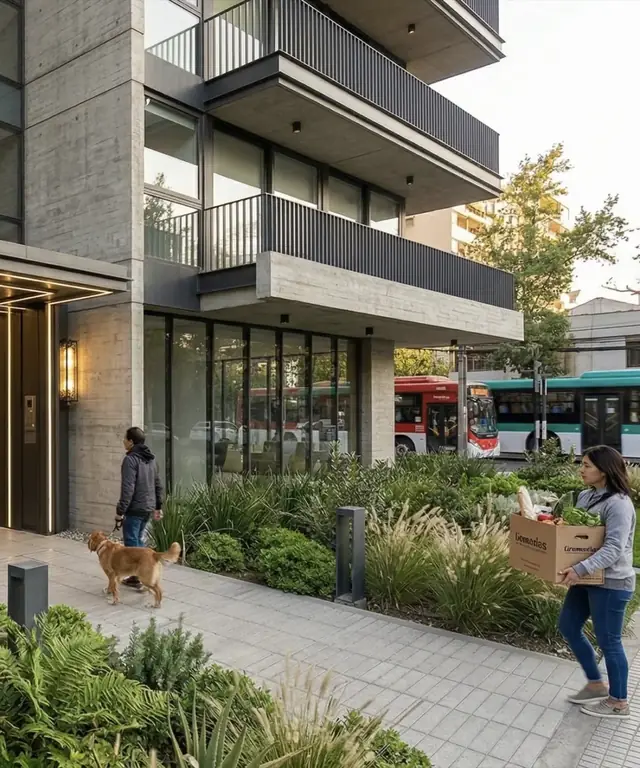
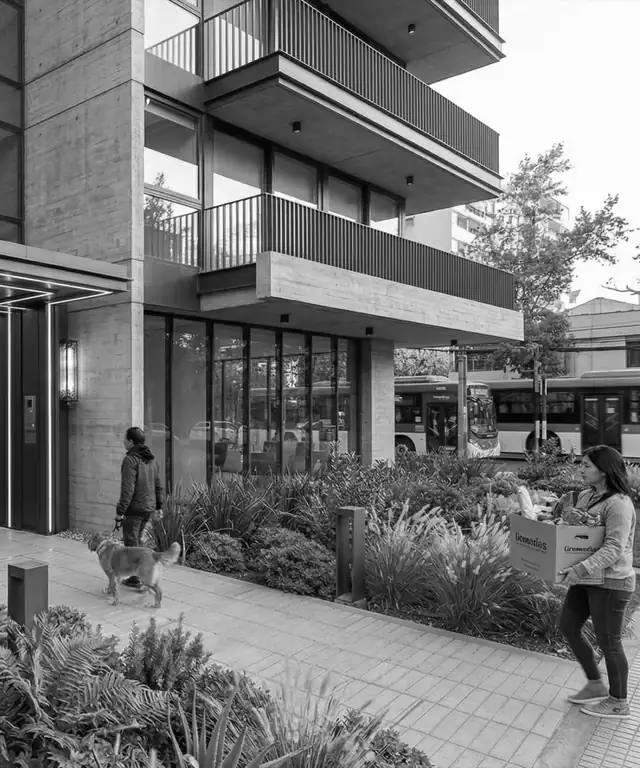
Rendimiento: LCP más temprano, sin reflujo forzado y menos JS inicial
Ajustes a partir del análisis de PageSpeed/Lighthouse en móvil:
- La animación de entrada de la hero parte con opacidad 0.3: un elemento con
  opacidad 0 no cuenta para el LCP hasta que aparece, y el H1 es el LCP en móvil.
- El nav detecta el scroll con IntersectionObserver en vez de leer scrollY al
  cargar, lo que forzaba un layout de toda la página. La barra móvil usa la
  posición que entrega el observer en vez de offsetTop.
- El Stepper se carga de forma diferida en el formulario de la hero (solo se usa
  después de enviar) y se precarga al enviar. <Step> pasa a StepperStep.tsx.
- Foto de la hero en escala de grises (se pinta en modo luminosidad), recomprimida
  y con versión de 960 px en el srcset.
- Solo se precarga la fuente principal; el brillo de la etiqueta se espacia.

diff --git a/src/components/islands/HeroForm.tsx b/src/components/islands/HeroForm.tsx
@@ -1,10 +1,10 @@
-import { useEffect, useId, useState, type ChangeEvent, type CSSProperties, type FormEvent, type ReactNode } from 'react';
+import { lazy, Suspense, useEffect, useId, useState, type ChangeEvent, type CSSProperties, type FormEvent, type ReactNode } from 'react';
 import { AnimatePresence, motion } from 'motion/react';
 import { ArrowRight, Check, LoaderCircle } from 'lucide-react';
 import SpotlightCard from '../reactbits/SpotlightCard';
 import StarBorder from '../reactbits/StarBorder';
 import ClickSpark from '../reactbits/ClickSpark';
-import Stepper, { Step } from '../reactbits/Stepper';
+import { Step } from '../reactbits/StepperStep';
 import WhatsAppIcon from '../ui/WhatsAppIcon';
 import { PREFILL_EVENT, emptyLead, sendLead, track, type Lead } from '../../lib/leads';
 
@@ -37,6 +37,10 @@ interface Props {
 }
 
 type Phase = 'contact' | 'sent' | 'details' | 'done';
+
+// El Stepper solo se usa después de enviar el lead: se carga aparte para aligerar la hidratación inicial
+const loadStepper = () => import('../reactbits/Stepper');
+const Stepper = lazy(loadStepper);
 
 const INPUT =
   'peer w-full rounded-xl border border-white/15 bg-white/[0.06] px-4 text-[14.5px] text-white outline-none transition duration-200 placeholder:text-transparent focus:border-white/55 focus:bg-white/[0.1] [&:-webkit-autofill]:[-webkit-text-fill-color:#fff] [&:-webkit-autofill]:[transition:background-color_9999s]';
@@ -205,6 +209,11 @@ export default function HeroForm(props: Props) {
   const update =
     (name: keyof Lead) => (event: ChangeEvent<HTMLInputElement | HTMLSelectElement | HTMLTextAreaElement>) =>
       setLead(current => ({ ...current, [name]: event.target.value }));
+
+  // Apenas se envía el lead se precarga el Stepper, así el paso de detalles abre sin espera
+  useEffect(() => {
+    if (phase === 'sent') void loadStepper();
+  }, [phase]);
 
   // La autoevaluación puede precargar el motivo con su resultado
   useEffect(() => {
@@ -409,86 +418,88 @@ export default function HeroForm(props: Props) {
 
           {phase === 'details' && (
             <Panel key="details">
-              <Stepper
-                step={detailsStep}
-                onStepChange={setDetailsStep}
-                theme="dark"
-                frame={false}
-                width="100%"
-                linear
-                accentColor="#ffffff"
-                style={
-                  {
-                    '--stepper-tile': 'linear-gradient(180deg, rgba(255,255,255,0.18), rgba(255,255,255,0.09))',
-                    '--stepper-tile-edge': 'rgba(255, 255, 255, 0.16)',
-                    '--stepper-tile-highlight': 'rgba(255, 255, 255, 0.2)',
-                    '--stepper-tile-shadow': '0 6px 16px -8px rgba(0, 0, 0, 0.5)',
-                    '--stepper-well': 'rgba(255, 255, 255, 0.06)'
-                  } as CSSProperties
-                }
-                backButtonText="Volver"
-                nextButtonText="Continuar"
-                completeButtonText={sending ? 'Enviando…' : props.detailsSubmit}
-                nextButtonProps={{
-                  disabled: sending || (detailsStep === 1 && !lead.tipo),
-                  onClick: event => {
-                    if (detailsStep === 2) {
-                      event.preventDefault();
-                      void submitDetails();
-                    }
+              <Suspense fallback={<div className="min-h-[380px]" aria-busy="true" />}>
+                <Stepper
+                  step={detailsStep}
+                  onStepChange={setDetailsStep}
+                  theme="dark"
+                  frame={false}
+                  width="100%"
+                  linear
+                  accentColor="#ffffff"
+                  style={
+                    {
+                      '--stepper-tile': 'linear-gradient(180deg, rgba(255,255,255,0.18), rgba(255,255,255,0.09))',
+                      '--stepper-tile-edge': 'rgba(255, 255, 255, 0.16)',
+                      '--stepper-tile-highlight': 'rgba(255, 255, 255, 0.2)',
+                      '--stepper-tile-shadow': '0 6px 16px -8px rgba(0, 0, 0, 0.5)',
+                      '--stepper-well': 'rgba(255, 255, 255, 0.06)'
+                    } as CSSProperties
                   }
-                }}
-              >
-                <Step title="Tu comunidad">
-                  <div className="grid gap-3 pt-1">
-                    <SelectField label="Tu comunidad" name="tipo" value={lead.tipo} options={options.tipo} onChange={update('tipo')} required />
-                    <SelectField
-                      label="¿Eres parte del comité actual?"
-                      name="comite"
-                      value={lead.comite}
-                      options={options.comite}
-                      onChange={update('comite')}
-                    />
-                    <div className="grid grid-cols-3 gap-3">
-                      <Field label="Torres" name="torres" type="number" inputMode="numeric" min={1} max={99} value={lead.torres} onChange={update('torres')} />
-                      <Field label="Pisos" name="pisos" type="number" inputMode="numeric" min={1} max={60} value={lead.pisos} onChange={update('pisos')} />
-                      <Field label="Deptos/piso" name="deptos" type="number" inputMode="numeric" min={1} max={40} value={lead.deptos} onChange={update('deptos')} />
+                  backButtonText="Volver"
+                  nextButtonText="Continuar"
+                  completeButtonText={sending ? 'Enviando…' : props.detailsSubmit}
+                  nextButtonProps={{
+                    disabled: sending || (detailsStep === 1 && !lead.tipo),
+                    onClick: event => {
+                      if (detailsStep === 2) {
+                        event.preventDefault();
+                        void submitDetails();
+                      }
+                    }
+                  }}
+                >
+                  <Step title="Tu comunidad">
+                    <div className="grid gap-3 pt-1">
+                      <SelectField label="Tu comunidad" name="tipo" value={lead.tipo} options={options.tipo} onChange={update('tipo')} required />
+                      <SelectField
+                        label="¿Eres parte del comité actual?"
+                        name="comite"
+                        value={lead.comite}
+                        options={options.comite}
+                        onChange={update('comite')}
+                      />
+                      <div className="grid grid-cols-3 gap-3">
+                        <Field label="Torres" name="torres" type="number" inputMode="numeric" min={1} max={99} value={lead.torres} onChange={update('torres')} />
+                        <Field label="Pisos" name="pisos" type="number" inputMode="numeric" min={1} max={60} value={lead.pisos} onChange={update('pisos')} />
+                        <Field label="Deptos/piso" name="deptos" type="number" inputMode="numeric" min={1} max={40} value={lead.deptos} onChange={update('deptos')} />
+                      </div>
+                      <SelectField
+                        label="¿Tiene ascensores?"
+                        name="ascensores"
+                        value={lead.ascensores}
+                        options={options.ascensores}
+                        onChange={update('ascensores')}
+                      />
                     </div>
-                    <SelectField
-                      label="¿Tiene ascensores?"
-                      name="ascensores"
-                      value={lead.ascensores}
-                      options={options.ascensores}
-                      onChange={update('ascensores')}
-                    />
-                  </div>
-                </Step>
-                <Step title="Qué buscas">
-                  <div className="grid gap-3 pt-1">
-                    <SelectField
-                      label="¿Tiene caldera de agua caliente?"
-                      name="calderas"
-                      value={lead.calderas}
-                      options={options.calderas}
-                      onChange={update('calderas')}
-                    />
-                    <SelectField
-                      label="Espacios comunes (gym, quinchos, sala…)"
-                      name="espacios"
-                      value={lead.espacios}
-                      options={options.espacios}
-                      onChange={update('espacios')}
-                    />
-                    <TextArea label="¿Por qué buscas nueva administración?" name="motivo" value={lead.motivo} onChange={update('motivo')} />
-                    <TextArea
-                      label="¿Qué es lo más importante que debe tener una administración para ti?"
-                      name="importante"
-                      value={lead.importante}
-                      onChange={update('importante')}
-                    />
-                  </div>
-                </Step>
-              </Stepper>
+                  </Step>
+                  <Step title="Qué buscas">
+                    <div className="grid gap-3 pt-1">
+                      <SelectField
+                        label="¿Tiene caldera de agua caliente?"
+                        name="calderas"
+                        value={lead.calderas}
+                        options={options.calderas}
+                        onChange={update('calderas')}
+                      />
+                      <SelectField
+                        label="Espacios comunes (gym, quinchos, sala…)"
+                        name="espacios"
+                        value={lead.espacios}
+                        options={options.espacios}
+                        onChange={update('espacios')}
+                      />
+                      <TextArea label="¿Por qué buscas nueva administración?" name="motivo" value={lead.motivo} onChange={update('motivo')} />
+                      <TextArea
+                        label="¿Qué es lo más importante que debe tener una administración para ti?"
+                        name="importante"
+                        value={lead.importante}
+                        onChange={update('importante')}
+                      />
+                    </div>
+                  </Step>
+                </Stepper>
+              </Suspense>
               {errorNote}
             </Panel>
           )}

diff --git a/src/data/site.ts b/src/data/site.ts
@@ -79,10 +79,14 @@ export const site = {
     rotating: ['el lugar donde vives', 'tu edificio', 'tu condominio', 'tu tranquilidad'],
     subtitle:
       'Mantenciones preventivas para que nada falle, supervisión en terreno todas las semanas y en línea 24/7, seguridad con protocolos definidos y cada gasto controlado con total transparencia.',
-    // Foto de fondo de la hero (va al 22% de opacidad). `small`: versión de 640 px para pantallas chicas
+    // Foto de fondo de la hero (va al 22% de opacidad y en modo luminosidad: basta en escala de grises).
+    // `variants`: versiones más chicas para el srcset
     image: {
       src: '/edificio-residencial.webp',
-      small: '/edificio-residencial-640.webp',
+      variants: [
+        { src: '/edificio-residencial-640.webp', width: 640 },
+        { src: '/edificio-residencial-960.webp', width: 960 }
+      ],
       alt: 'Edificio residencial',
       width: 1100,
       height: 1320

diff --git a/src/components/reactbits/Stepper.tsx b/src/components/reactbits/Stepper.tsx
@@ -14,15 +14,11 @@ import {
   type ReactNode
 } from 'react';
 import { ArrowLeft, ArrowRight, Check as CheckIcon } from 'lucide-react';
+import { Step, type StepProps } from './StepperStep';
+
+export { Step, type StepProps };
 
 const useIsomorphicLayoutEffect = typeof window === 'undefined' ? useEffect : useLayoutEffect;
-
-export interface StepProps {
-  children?: ReactNode;
-  title?: ReactNode;
-  description?: ReactNode;
-  icon?: ReactNode;
-}
 
 interface StepIndicatorProps {
   step: number;
@@ -200,10 +196,6 @@ function Check() {
       <CheckIcon size={16} strokeWidth={2.4} />
     </span>
   );
-}
-
-export function Step({ children }: StepProps) {
-  return <div className="min-w-0">{children}</div>;
 }
 
 export default function Stepper({

diff --git a/src/styles/global.css b/src/styles/global.css
@@ -34,9 +34,11 @@
   --animate-float: float 6s ease-in-out infinite;
   --animate-pulse-ring: pulse-ring 2.4s cubic-bezier(0.22, 1, 0.36, 1) infinite;
 
+  /* Solo en la hero. Arranca visible (opacidad > 0): un elemento con opacidad 0 no cuenta para el LCP
+     hasta que aparece, y el H1 es el LCP en móvil */
   @keyframes blur-in {
     from {
-      opacity: 0;
+      opacity: 0.3;
       filter: blur(12px);
       transform: translateY(14px);
     }

diff --git a/src/components/reactbits/StepperStep.tsx b/src/components/reactbits/StepperStep.tsx
@@ -1,0 +1,14 @@
+import type { ReactNode } from 'react';
+
+// Separado de Stepper.tsx para poder usar <Step> sin cargar el Stepper completo
+// (el formulario de la hero carga el Stepper de forma diferida)
+export interface StepProps {
+  children?: ReactNode;
+  title?: ReactNode;
+  description?: ReactNode;
+  icon?: ReactNode;
+}
+
+export function Step({ children }: StepProps) {
+  return <div className="min-w-0">{children}</div>;
+}
